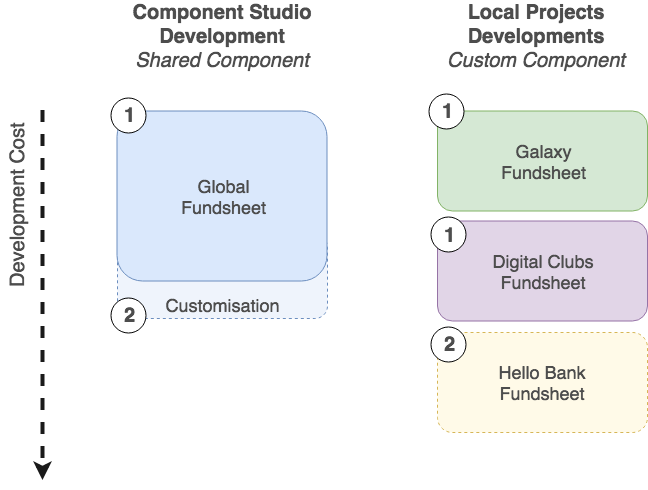
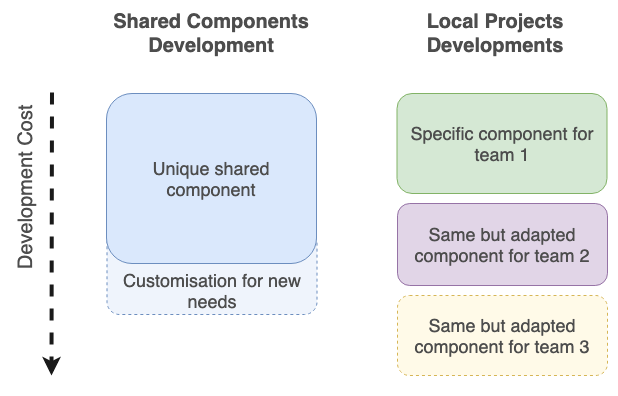
simplify decision tree

diff --git a/documentation/how-to-contribute/1-decision-making.md b/documentation/how-to-contribute/1-decision-making.md
@@ -1,37 +1,21 @@
-# Should I add a new component to SharedComponents?
-
-> **The team currently responsible for SharedComponents:** Xavier Lefevre, Surya Ambrose and Ivan Poiraudeau
+# Should I add a new component to Shared Components?
 
 ## How to decide?
 
-> ⚠ This process is to make sure that the cost of developing on SharedComponents is worth the gain
+> ⚠ This process is to make sure that the cost of developing on Shared Components is worth the gain
 
-![./decision-making.png](./decision-making.png)
+<p align="center">
+  <b>Decision tree!</b>
+  <br/>
+  <img src="decision-making.png" height="700px;"/>
+<p>
 
-## Migration standards
+## Development on Shared Components is complex hence costly
 
-Check there are no alternatives already existing in shared components for each component and subcomponent :
+> Find below a comparison between developing a shared component or a custom one directly in a project:
 
-- In Storybook, try to find similar components in UI and Widgets sections
-- Components might not be displayed in storybook, check directly in the code, if you see one without a story, contribute by creating its own story
-
-Check that the style of every component and subcomponent verify the style standard : [Style standard](../technical-standards/architecture.md#how-to-style-your-components-in-shared-components)
-
-When adding components using Redux for parent-child communication : [Component state standard](../technical-standards/architecture.md#how-to-handle-your-component-state-local-or-with-a-context)
-
-## Development on SharedComponents is complex hence costly
-
-Find below a comparison between developing a shared component on SharedComponents or a custom one directly in a project
-
-![./cost-comparison.png](./cost-comparison.png)
-
-1.  Digital Clubs and Galaxy will need a fundsheet in the coming weeks. These two fundsheets have equal design (except colors)
-    - A single factorized fundsheet in SharedComponents is more complex to architect and develop than one directly in a project, but it allows for direct re-usability
-    - Developing two fundsheets from scratch is slightly more costly but it allows for a full customisation
-2.  A third project needs a fundsheet as well
-    - Re-using the factorized fundsheet, adapting it slightly to make it more personalized will be less costly than a new full fundsheet
-    - A greater cost of debt and dependencies maintenance + tests should be considered with Shared Components
-
-> ⚠ You can see the development flow cost [here](./legacy/development.md)
->
-> 🎯 The full development process for developing **one ticket** until releasing it in production (like Digital Clubs) takes **~90min + a complex development**.
+<p align="center">
+  <b>Basic comparison!</b>
+  <br/>
+  <img src="cost-comparison.png" height="450px;"/>
+<p>
